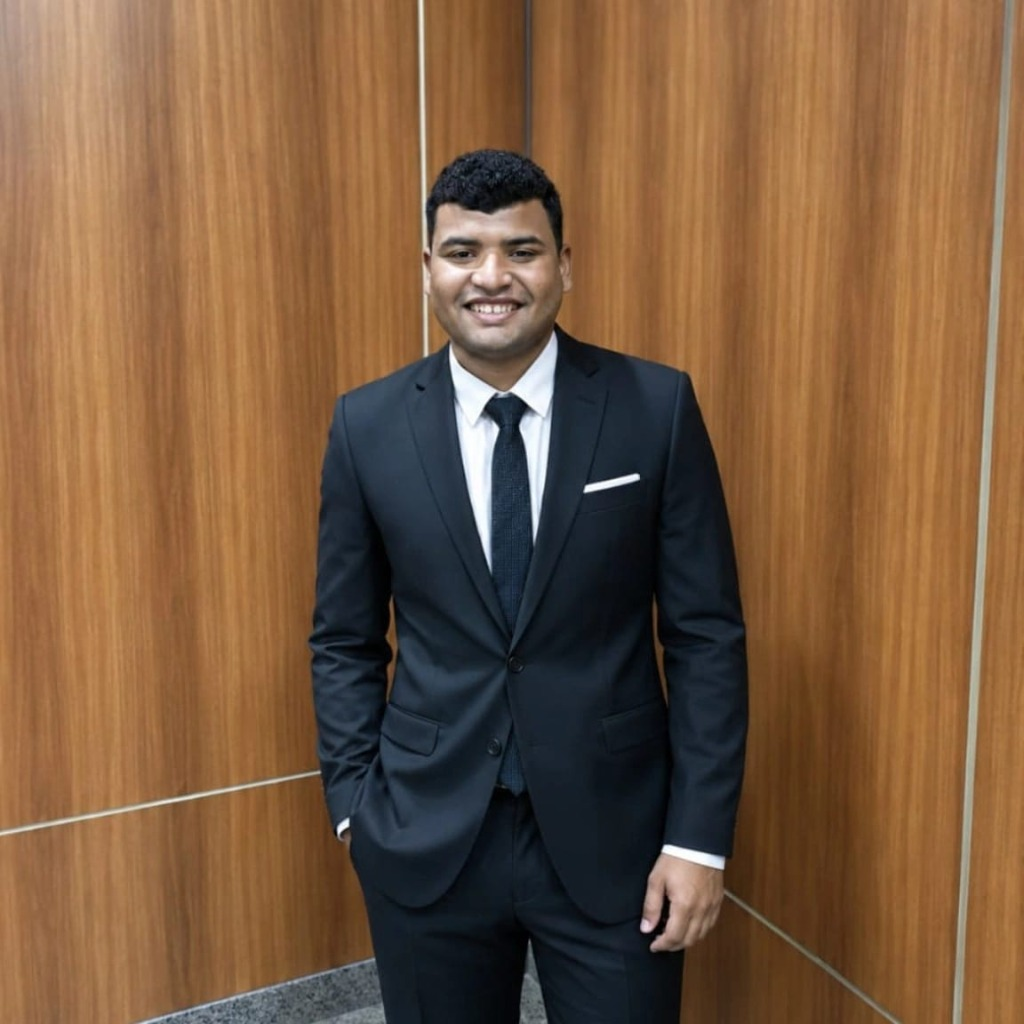
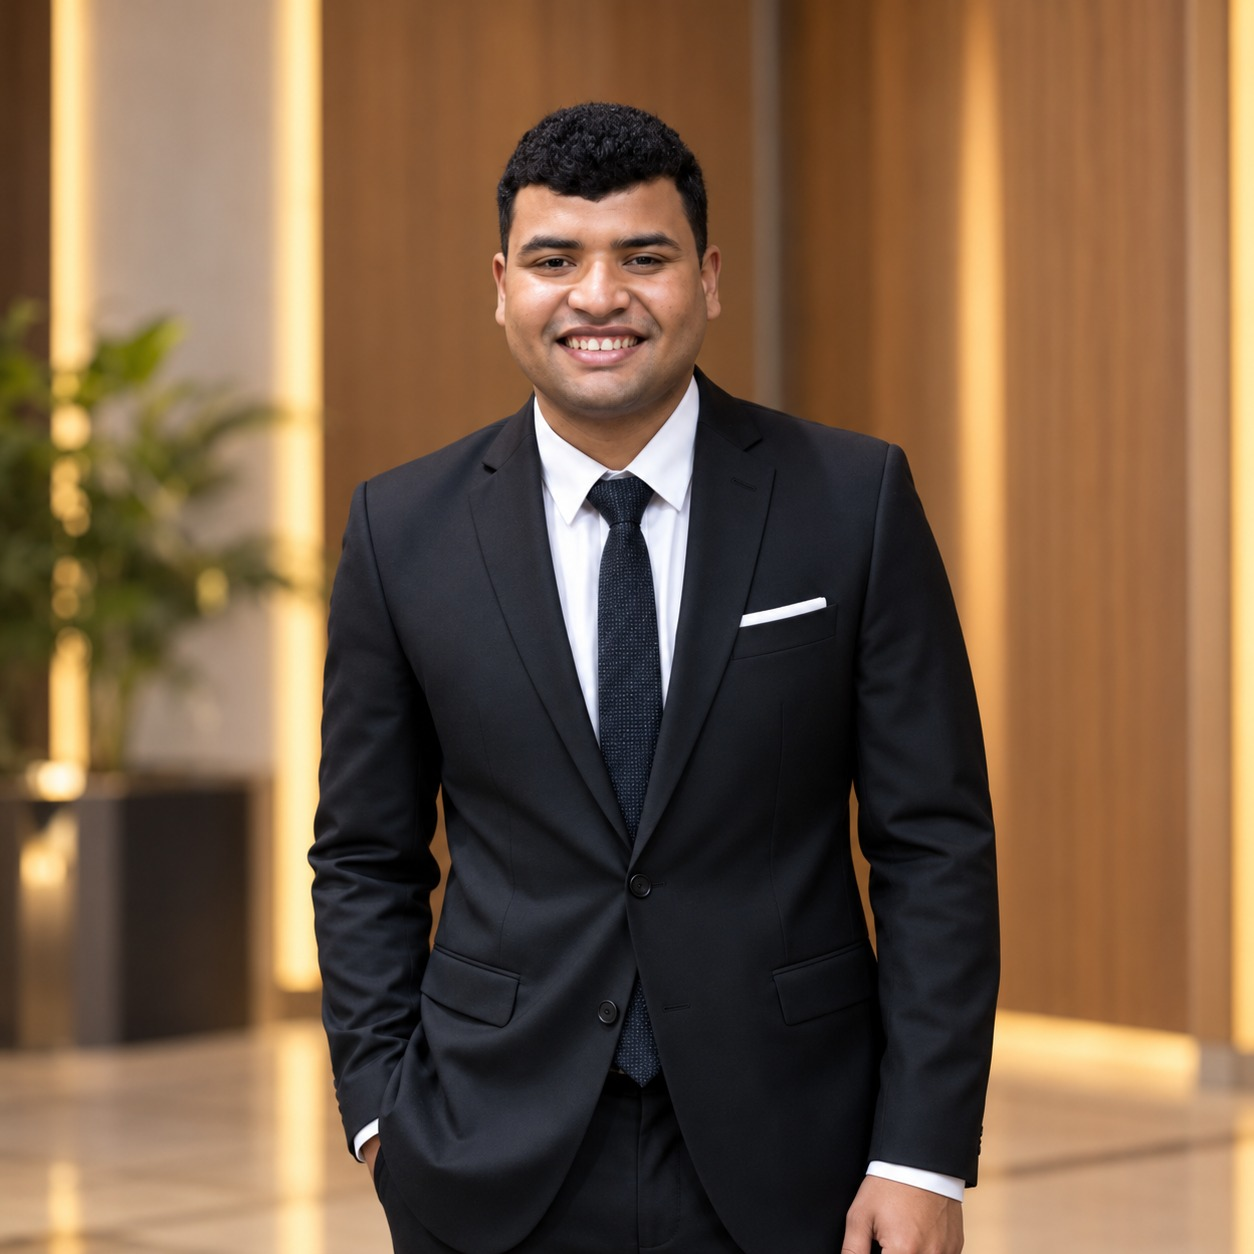
feat: add EFIDP project and update professional photo across UI

diff --git a/src/data/projects.ts b/src/data/projects.ts
@@ -33,6 +33,38 @@ export const projectsData: Project[] = [
       ]
     }
   },
+  {
+    id: "efidp-platform",
+    title: "EFIDP — Egypt Financial Intelligence Data Platform",
+    subtitle: "Enterprise Data Lakehouse & Financial Analytics Platform — Python & Kafka",
+    category: "Data Engineering",
+    secondaryCategories: ["Back-End"],
+    status: "In Development",
+    description: "An enterprise-grade financial data engineering and Lakehouse platform simulating real-time and batch intelligence for Egypt's macroeconomic and capital markets. Built with Medallion architecture (Bronze/Silver/Gold on MinIO S3), Apache Kafka event streaming, Kimball Star Schema in PostgreSQL 16, Apache Airflow orchestration, and FastAPI serving layer with 100% test coverage.",
+    technologies: ["Python", "Apache Kafka", "PostgreSQL", "FastAPI", "MinIO / S3", "Apache Airflow", "Docker", "Pydantic", "Redis"],
+    featured: true,
+    github: "https://github.com/ahmedbadawix77x-gif/EFIDP",
+    demo: "https://github.com/ahmedbadawix77x-gif/EFIDP",
+    imageAccent: "linear-gradient(135deg, #0284c7 0%, #06b6d4 50%, #3b82f6 100%)",
+    details: {
+      problem: "Financial and macroeconomic data in emerging markets like Egypt is fragmented across disparate formats (PDF reports, Excel/CSV releases, public statistical portals, and banking transaction feeds). Organizations face significant challenges with schema drift, late-arriving data, lack of auditability, disparate refresh cadences, and zero end-to-end data lineage.",
+      idea: "Design an enterprise-level, production-grade financial data platform that unifies real public indicators (CBE corridor rates, EGX market indices, World Bank macro metrics) and high-throughput synthetic retail transaction streams under strict data contracts and reproducible Lakehouse architecture.",
+      solution: "Engineered an end-to-end data platform utilizing Medallion Lakehouse storage (MinIO S3), Apache Kafka (KRaft mode) for event streaming, a Kimball Star Schema data warehouse in PostgreSQL 16, Airflow DAG orchestration, and an asynchronous FastAPI serving layer. Implemented contract-first validation with Pydantic v2, automated JSON Schema exports, and achieved 100% test coverage with strict CI/CD quality gates.",
+      role: "Principal Data Platform Architect & Back-End Engineer. Designed the complete system architecture, data contracts, ingestion frameworks, containerized infrastructure, and analytical data models.",
+      challenges: "Enforcing strict zero-trust data contracts across heterogeneous data sources, maintaining deterministic payload hashing and idempotency, and achieving 100% test coverage with strict static typing (MyPy) and Ruff formatting across complex async architectures.",
+      howISolvedThem: "Implemented extensible connector patterns (API, File, Mock), JSON Schema Draft 2020-12 automated contract exports, standardized metadata envelope wrappers with SHA-256 payload verification, and circuit breaker validation reporting.",
+      whatILearned: "Deep practical mastery of enterprise Lakehouse architecture (Medallion pattern), robust schema evolution rules, stream ingestion with Kafka KRaft mode, container orchestration with multi-service Docker Compose, and rigorous software craftsmanship in Python.",
+      futureImprovements: "Real-time dbt transformations on Silver-to-Gold layers, Apache Spark distributed batch processing, and ML-based financial anomaly detection pipelines.",
+      highlights: [
+        "Medallion Lakehouse Architecture (Bronze Raw -> Silver Cleaned -> Gold Curated) on MinIO S3",
+        "Event-driven transaction streaming with Apache Kafka (KRaft mode)",
+        "Kimball Star Schema Data Warehouse in PostgreSQL 16 (Fact/Dim analytical model)",
+        "Contract-first validation engine with Pydantic v2 & automated JSON Schema export",
+        "100% test coverage (pytest, pytest-cov) with strict type checking (MyPy & Ruff)",
+        "Containerized enterprise infrastructure: Kafka, MinIO, PostgreSQL, Redis, Airflow, and FastAPI"
+      ]
+    }
+  },
 
   {
     id: "faculty-specific-education",

diff --git a/src/components/About.tsx b/src/components/About.tsx
@@ -45,7 +45,21 @@ export const About: React.FC = () => {
           {/* Left: Detailed Story & Paragraphs */}
           <div className="lg:col-span-7 space-y-4">
             
-            <div className="p-5 sm:p-6 rounded-2xl bg-white border border-[#DCEEFF] shadow-xs space-y-3 text-slate-600 leading-relaxed text-xs sm:text-sm">
+            <div className="p-5 sm:p-6 rounded-2xl bg-white border border-[#DCEEFF] shadow-xs space-y-3.5 text-slate-600 leading-relaxed text-xs sm:text-sm">
+              <div className="flex items-center gap-3 pb-3 border-b border-[#EEF7FF]">
+                <div className="w-12 h-12 rounded-full overflow-hidden shrink-0 border-2 border-[#3B82F6]/30 shadow-xs">
+                  <img
+                    src="/ahmed-photo.jpg"
+                    alt="Ahmed Badawy"
+                    className="w-full h-full object-cover"
+                    style={{ transform: 'scale(1.42)', transformOrigin: '50% 22%' }}
+                  />
+                </div>
+                <div>
+                  <h3 className="text-sm font-bold text-[#0F2A5F]">Ahmed Badawy Ramadan Hassanein</h3>
+                  <p className="text-[11px] text-slate-500 font-medium">Benha University · Computer Department · DEPI Team Leader</p>
+                </div>
+              </div>
               <p>
                 I am a third-year Computer student at <strong className="text-[#0F2A5F] font-bold">Faculty of Specific Education, Benha University</strong>, specializing in the <strong className="text-[#0F2A5F] font-bold">Computer Department</strong>. I am building my career around <strong className="text-[#2563EB] font-bold">Data Engineering</strong>, <strong className="text-[#2563EB] font-bold">Artificial Intelligence</strong>, software development, automation, and practical technology solutions.
               </p>

diff --git a/src/components/HeroVisual.tsx b/src/components/HeroVisual.tsx
@@ -155,17 +155,24 @@ export const HeroVisual: React.FC = () => {
             style={{ width: '186px', height: '186px' }}
           />
           {/* The actual photo */}
-          <img
-            src="/ahmed-photo.jpg"
-            alt="Ahmed Badawy"
-            className="relative z-10 rounded-full object-cover"
+          <div
+            className="relative z-10 rounded-full overflow-hidden"
             style={{
               width: '176px',
               height: '176px',
-              objectPosition: 'top center',
               boxShadow: '0 4px 24px rgba(59,130,246,0.25)',
             }}
-          />
+          >
+            <img
+              src="/ahmed-photo.jpg"
+              alt="Ahmed Badawy"
+              className="w-full h-full object-cover"
+              style={{
+                transform: 'scale(1.42)',
+                transformOrigin: '50% 22%',
+              }}
+            />
+          </div>
           {/* Verified checkmark */}
           <div
             className="absolute bottom-2 right-2 z-20 w-8 h-8 rounded-full bg-gradient-to-br from-[#3B82F6] to-[#2563EB] flex items-center justify-center border-2 border-white shadow-md"

diff --git a/src/components/Navbar.tsx b/src/components/Navbar.tsx
@@ -63,13 +63,17 @@ export const Navbar: React.FC<NavbarProps> = ({ onOpenResume }) => {
                 borderRadius: '50%',
               }}
             />
-            <div className="absolute inset-[2px] rounded-full bg-white" />
-            <img
-              src="/ahmed-photo.jpg"
-              alt="Ahmed Badawy"
-              className="absolute inset-[2.5px] rounded-full object-cover object-top"
-              style={{ width: 'calc(100% - 5px)', height: 'calc(100% - 5px)' }}
-            />
+            <div className="absolute inset-[2px] rounded-full bg-white overflow-hidden">
+              <img
+                src="/ahmed-photo.jpg"
+                alt="Ahmed Badawy"
+                className="w-full h-full object-cover"
+                style={{
+                  transform: 'scale(1.42)',
+                  transformOrigin: '50% 22%',
+                }}
+              />
+            </div>
           </div>
           <div className="flex flex-col">
             <span className="font-bold text-base tracking-tight text-[#0F2A5F]">

diff --git a/index.html b/index.html
@@ -132,14 +132,22 @@
       background: #0a1628;
     }
 
-    .splash-photo {
+    .splash-photo-wrap {
       position: relative;
       width: 100%;
       height: 100%;
       border-radius: 50%;
-      object-fit: cover;
-      object-position: top center;
+      overflow: hidden;
       z-index: 1;
+    }
+
+    .splash-photo {
+      position: relative;
+      width: 100%;
+      height: 100%;
+      object-fit: cover;
+      transform: scale(1.42);
+      transform-origin: 50% 22%;
     }
 
     /* Text content */
@@ -296,7 +304,9 @@
     <div class="splash-photo-ring">
       <div class="splash-ring-outer"></div>
       <div class="splash-ring-gap"></div>
-      <img src="/ahmed-photo.jpg" alt="Ahmed Badawy" class="splash-photo" />
+      <div class="splash-photo-wrap">
+        <img src="/ahmed-photo.jpg" alt="Ahmed Badawy" class="splash-photo" />
+      </div>
     </div>
 
     <!-- Name & Title -->
